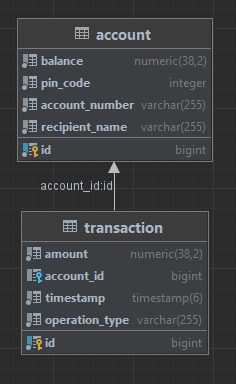
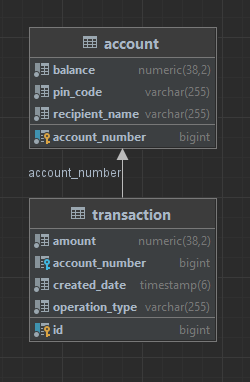
Added DTO layer and mappers. Made some changes in entities

Changed region(s): [[0.0593, 0.0576, 0.9195, 0.9215]]

diff --git a/src/main/java/com/epifanova/banking_app_test/mapper/TransactionMapper.java b/src/main/java/com/epifanova/banking_app_test/mapper/TransactionMapper.java
@@ -1,0 +1,49 @@
+package com.epifanova.banking_app_test.mapper;
+
+import com.epifanova.banking_app_test.dto.transactionDTO.TransactionDTO;
+import com.epifanova.banking_app_test.dto.transactionDTO.TransactionsDTO;
+import com.epifanova.banking_app_test.model.Account;
+import com.epifanova.banking_app_test.model.Transaction;
+import org.mapstruct.Mapper;
+import org.mapstruct.Mapping;
+import org.mapstruct.Named;
+import org.mapstruct.factory.Mappers;
+
+import java.time.LocalDateTime;
+import java.time.format.DateTimeFormatter;
+import java.util.List;
+
+@Mapper
+public interface TransactionMapper {
+
+  TransactionMapper INSTANCE = Mappers.getMapper(TransactionMapper.class);
+
+  @Mapping(source = "account", target = "account")
+  @Mapping(source = "operationType", target = "operationType")
+  @Mapping(source = "amount", target = "amount")
+  @Mapping(target = "createdDate", source = "transaction.createdDate", qualifiedByName = "localDateTimeToString")
+  TransactionDTO toTransactionDTO(Transaction transaction);
+
+  @Named("localDateTimeToString")
+  default String localDateTimeToString(LocalDateTime localDateTime) {
+    if (localDateTime == null) {
+      return null;
+    }
+    DateTimeFormatter formatter = DateTimeFormatter.ofPattern("yyyy-MM-dd HH:mm:ss");
+    return localDateTime.format(formatter);
+  }
+
+
+  default Long map(Account account) {
+    return account != null ? account.getAccountNumber() : null;
+  }
+
+  List<TransactionDTO> toTransactionDTOList(List<Transaction> transactions);
+
+  default TransactionsDTO toTransactionsDTO(List<Transaction> transactions) {
+    TransactionsDTO transactionsDTO = new TransactionsDTO();
+    transactionsDTO.setResult(toTransactionDTOList(transactions));
+    transactionsDTO.setCount((long) transactions.size());
+    return transactionsDTO;
+  }
+}

diff --git a/src/main/java/com/epifanova/banking_app_test/mapper/AccountMapper.java b/src/main/java/com/epifanova/banking_app_test/mapper/AccountMapper.java
@@ -1,0 +1,29 @@
+package com.epifanova.banking_app_test.mapper;
+
+import com.epifanova.banking_app_test.dto.accountDTO.AccountBalanceAfterOperationDTO;
+import com.epifanova.banking_app_test.dto.accountDTO.AccountDTO;
+import com.epifanova.banking_app_test.dto.accountDTO.AccountsDTO;
+import com.epifanova.banking_app_test.dto.accountDTO.NewAccountDTO;
+import com.epifanova.banking_app_test.model.Account;
+import org.mapstruct.Mapper;
+import org.mapstruct.factory.Mappers;
+
+import java.util.List;
+
+@Mapper
+public interface AccountMapper {
+  AccountMapper INSTANCE = Mappers.getMapper(AccountMapper.class);
+  Account toAccount(NewAccountDTO newAccountDTO);
+
+  AccountDTO toAccountDTOFromAccount(Account account);
+
+  List<AccountDTO> toAccountDTOList(List<Account> accounts);
+
+  default AccountsDTO toAccountsDTO(List<Account> accounts) {
+    AccountsDTO  accountsDTO = new AccountsDTO();
+    accountsDTO.setResult(toAccountDTOList(accounts));
+    accountsDTO.setCount((long)accounts.size());
+    return accountsDTO;
+  }
+  AccountBalanceAfterOperationDTO balanceAfterOperationFromAccount(Account account);
+}

diff --git a/src/main/java/com/epifanova/banking_app_test/model/Account.java b/src/main/java/com/epifanova/banking_app_test/model/Account.java
@@ -13,20 +13,32 @@ import java.math.BigDecimal;
 public class Account {
 
   @Id
-  @GeneratedValue(strategy = GenerationType.IDENTITY)
-  @Column(name = "id", nullable = false)
-  private Long id;
-
-  @Column(name = "account_number", nullable = false)
-  private String accountNumber;
+  @GeneratedValue(
+      strategy = GenerationType.SEQUENCE,
+      generator = "account_numbers_auto_increment")
+  @SequenceGenerator(
+      name = "account_numbers_auto_increment",
+      sequenceName = "account_numbers_auto_increment",
+      allocationSize = 1
+  )
+  @Column(name = "account_number", updatable = false, nullable = false)
+  private Long accountNumber;
 
   @Column(name = "recipient_name", nullable = false)
   private String recipientName;
 
   @Column(name = "pin_code", nullable = false)
-  private int pinCode;
+  private String pinCode;
 
   @Column(name = "balance", nullable = false)
   private BigDecimal balance;
+
+  public void deposit(BigDecimal amount) {
+    balance = balance.add(amount);
+  }
+
+  public void withdraw(BigDecimal amount) {
+    balance = balance.subtract(amount);
+  }
 
 }

diff --git a/src/main/java/com/epifanova/banking_app_test/model/Transaction.java b/src/main/java/com/epifanova/banking_app_test/model/Transaction.java
@@ -22,10 +22,10 @@ public class Transaction {
   private Long id;
 
   @ManyToOne
-  @JoinColumn(name = "account_id")
+  @JoinColumn(name = "account_number")
   private Account account;
 
-  @Column(name = "operation_type",nullable = false)
+  @Column(name = "operation_type", nullable = false)
   @Enumerated(value = EnumType.STRING)
   private OperationType operationType;
 
@@ -33,6 +33,16 @@ public class Transaction {
   private BigDecimal amount;
 
   @CreationTimestamp(source = SourceType.DB)
-  @Column(name = "timestamp",nullable = false)
-  private LocalDateTime timestamp;
+  @Column(name = "created_date", nullable = false)
+  private LocalDateTime createdDate;
+
+  private Transaction(Account account, OperationType operationType, BigDecimal amount) {
+    this.account = account;
+    this.operationType = operationType;
+    this.amount = amount;
+  }
+
+  public static Transaction newBalanceAfterOperation(Account account, BigDecimal amount, OperationType operationType) {
+    return new Transaction(account, operationType, amount);
+  }
 }

diff --git a/src/main/java/com/epifanova/banking_app_test/dto/request/TransferRequest.java b/src/main/java/com/epifanova/banking_app_test/dto/request/TransferRequest.java
@@ -1,0 +1,27 @@
+package com.epifanova.banking_app_test.dto.request;
+
+import jakarta.validation.constraints.Pattern;
+import jakarta.validation.constraints.Positive;
+import lombok.AllArgsConstructor;
+import lombok.Data;
+import lombok.NoArgsConstructor;
+
+import java.math.BigDecimal;
+
+@Data
+@AllArgsConstructor
+@NoArgsConstructor
+public final class TransferRequest {
+
+  @Positive
+  private Long fromAccountNumber;
+
+  @Positive
+  private Long toAccountNumber;
+
+  @Pattern(regexp = "^\\d{4}$", message = "Must contain exactly 4 digits")
+  private String pinCode;
+
+  @Positive
+  private BigDecimal amount;
+}

diff --git a/src/main/java/com/epifanova/banking_app_test/mapper/RequestMapper.java b/src/main/java/com/epifanova/banking_app_test/mapper/RequestMapper.java
@@ -1,0 +1,16 @@
+package com.epifanova.banking_app_test.mapper;
+
+import com.epifanova.banking_app_test.dto.request.DepositRequest;
+import com.epifanova.banking_app_test.dto.request.TransferRequest;
+import com.epifanova.banking_app_test.dto.request.WithdrawRequest;
+import org.mapstruct.Mapper;
+import org.mapstruct.factory.Mappers;
+
+@Mapper
+public interface RequestMapper {
+  RequestMapper INSTANCE = Mappers.getMapper(RequestMapper.class);
+
+  DepositRequest fromTransferToDeposit(TransferRequest transferRequest);
+
+  WithdrawRequest fromTransferToWithdraw(TransferRequest transferRequest);
+}

diff --git a/src/main/java/com/epifanova/banking_app_test/repository/TransactionRepository.java b/src/main/java/com/epifanova/banking_app_test/repository/TransactionRepository.java
@@ -1,0 +1,19 @@
+package com.epifanova.banking_app_test.repository;
+
+import com.epifanova.banking_app_test.model.Transaction;
+import org.springframework.data.jpa.repository.JpaRepository;
+import org.springframework.stereotype.Repository;
+
+import java.util.List;
+
+@Repository
+public interface TransactionRepository extends JpaRepository<Transaction, Long> {
+
+ // @Fetch(FetchMode.SUBSELECT)
+  List<Transaction> findAllByAccount_AccountNumber(Long accountNumber);
+
+ // Long countAllByAccount_Id(Long id);
+
+ // List<Account> findAllByAccount_RecipientNameOrderByTimestampDesc();
+
+}

diff --git a/src/main/java/com/epifanova/banking_app_test/dto/request/WithdrawRequest.java b/src/main/java/com/epifanova/banking_app_test/dto/request/WithdrawRequest.java
@@ -1,0 +1,24 @@
+package com.epifanova.banking_app_test.dto.request;
+
+import jakarta.validation.constraints.Pattern;
+import jakarta.validation.constraints.Positive;
+import lombok.AllArgsConstructor;
+import lombok.Data;
+import lombok.NoArgsConstructor;
+
+import java.math.BigDecimal;
+
+@Data
+@AllArgsConstructor
+@NoArgsConstructor
+public final class WithdrawRequest {
+
+  @Pattern(regexp = "^\\d{4}$", message = "Must contain exactly 4 digits")
+  private String pinCode;
+
+  @Positive
+  private Long fromAccountNumber;
+
+  @Positive
+  private BigDecimal amount;
+}

diff --git a/src/main/java/com/epifanova/banking_app_test/dto/accountDTO/NewAccountDTO.java b/src/main/java/com/epifanova/banking_app_test/dto/accountDTO/NewAccountDTO.java
@@ -1,0 +1,21 @@
+package com.epifanova.banking_app_test.dto.accountDTO;
+
+import jakarta.validation.constraints.NotBlank;
+import jakarta.validation.constraints.Pattern;
+import jakarta.validation.constraints.Size;
+import lombok.AllArgsConstructor;
+import lombok.Data;
+import lombok.NoArgsConstructor;
+
+@Data
+@AllArgsConstructor
+@NoArgsConstructor
+public class NewAccountDTO {
+
+  @Pattern(regexp = "^\\d{4}$", message = "Must contain exactly 4 digits")
+  private String pinCode;
+
+  @NotBlank
+  @Size(min =  2,  max = 50)
+  private String recipientName;
+}

diff --git a/src/main/java/com/epifanova/banking_app_test/dto/request/DepositRequest.java b/src/main/java/com/epifanova/banking_app_test/dto/request/DepositRequest.java
@@ -1,0 +1,20 @@
+package com.epifanova.banking_app_test.dto.request;
+
+import jakarta.validation.constraints.Positive;
+import lombok.AllArgsConstructor;
+import lombok.Data;
+import lombok.NoArgsConstructor;
+
+import java.math.BigDecimal;
+
+@AllArgsConstructor
+@NoArgsConstructor
+@Data
+public final class DepositRequest {
+
+  @Positive
+  private Long toAccountNumber;
+
+  @Positive
+  private BigDecimal amount;
+}

diff --git a/src/main/java/com/epifanova/banking_app_test/dto/accountDTO/AccountBalanceAfterOperationDTO.java b/src/main/java/com/epifanova/banking_app_test/dto/accountDTO/AccountBalanceAfterOperationDTO.java
@@ -1,0 +1,16 @@
+package com.epifanova.banking_app_test.dto.accountDTO;
+
+import lombok.AllArgsConstructor;
+import lombok.Data;
+import lombok.NoArgsConstructor;
+
+import java.math.BigDecimal;
+
+@Data
+@AllArgsConstructor
+@NoArgsConstructor
+public class AccountBalanceAfterOperationDTO {
+  private Long accountNumber;
+  private String recipientName;
+  private BigDecimal balance;
+}

diff --git a/src/main/java/com/epifanova/banking_app_test/dto/transactionDTO/TransactionDTO.java b/src/main/java/com/epifanova/banking_app_test/dto/transactionDTO/TransactionDTO.java
@@ -1,0 +1,18 @@
+package com.epifanova.banking_app_test.dto.transactionDTO;
+
+
+import lombok.AllArgsConstructor;
+import lombok.Data;
+import lombok.NoArgsConstructor;
+
+@Data
+@AllArgsConstructor
+@NoArgsConstructor
+public class TransactionDTO {
+  private Long id;
+  private Long account;
+  private String operationType;
+  private String amount;
+  private String createdDate;
+
+}
